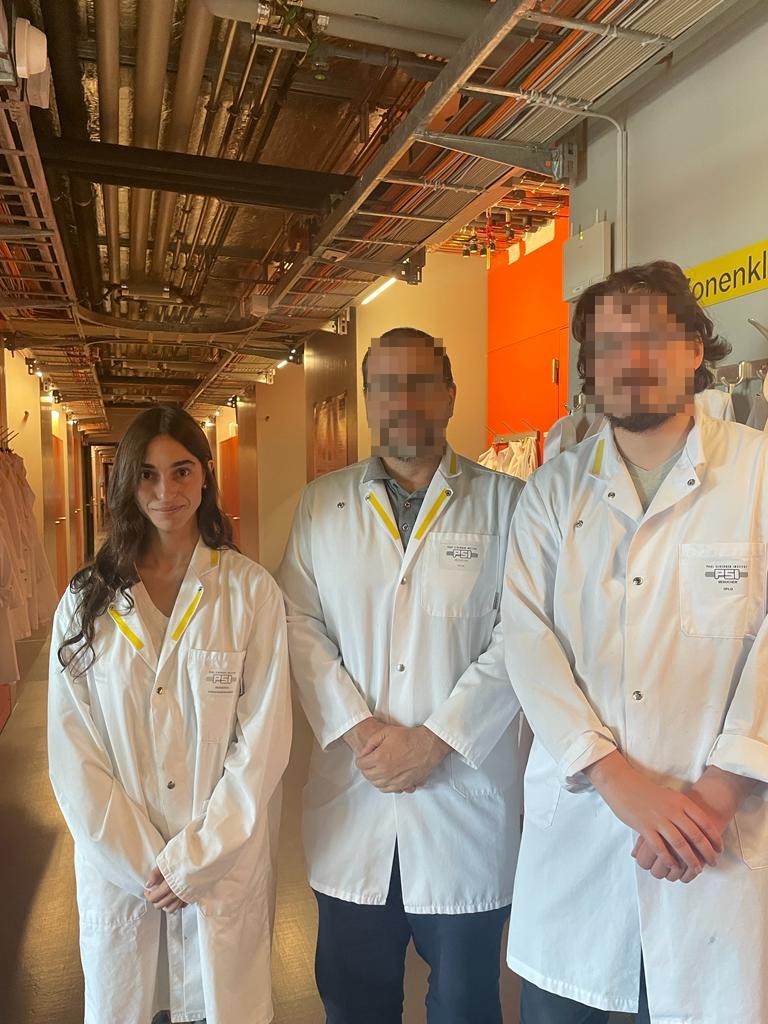
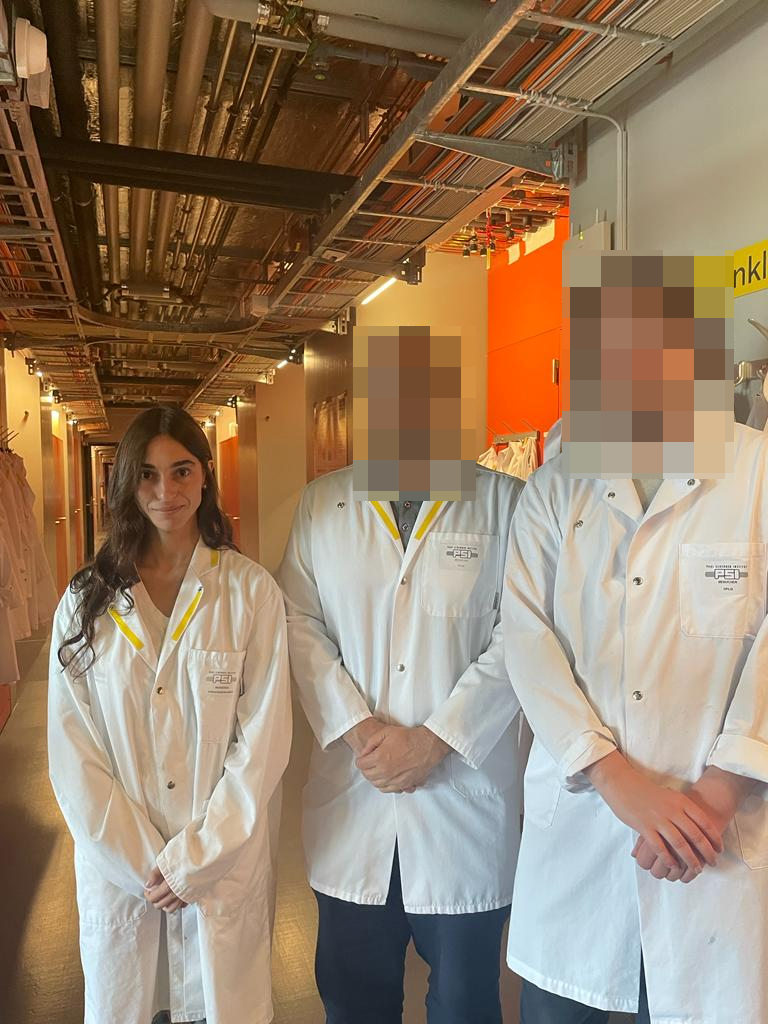
chore: minor fixes

Changed region(s): [[0.7188, 0.25, 0.9688, 0.4688], [0.4375, 0.3125, 0.625, 0.5]]

diff --git a/research.html b/research.html
@@ -142,7 +142,7 @@
         <p class="pub-authors">
           <span class="me">Alma Lago</span>
         </p>
-        <p class="pub-venue">Preprint, 2025</p>
+        <p class="pub-venue">Preprint, 2026</p>
         <div class="pub-links">
           <a class="pub-link" href="https://arxiv.org/abs/2603.15248">arXiv</a>
           <a class="pub-link" href="https://github.com/almalago/goal-tracking-env">code</a>
